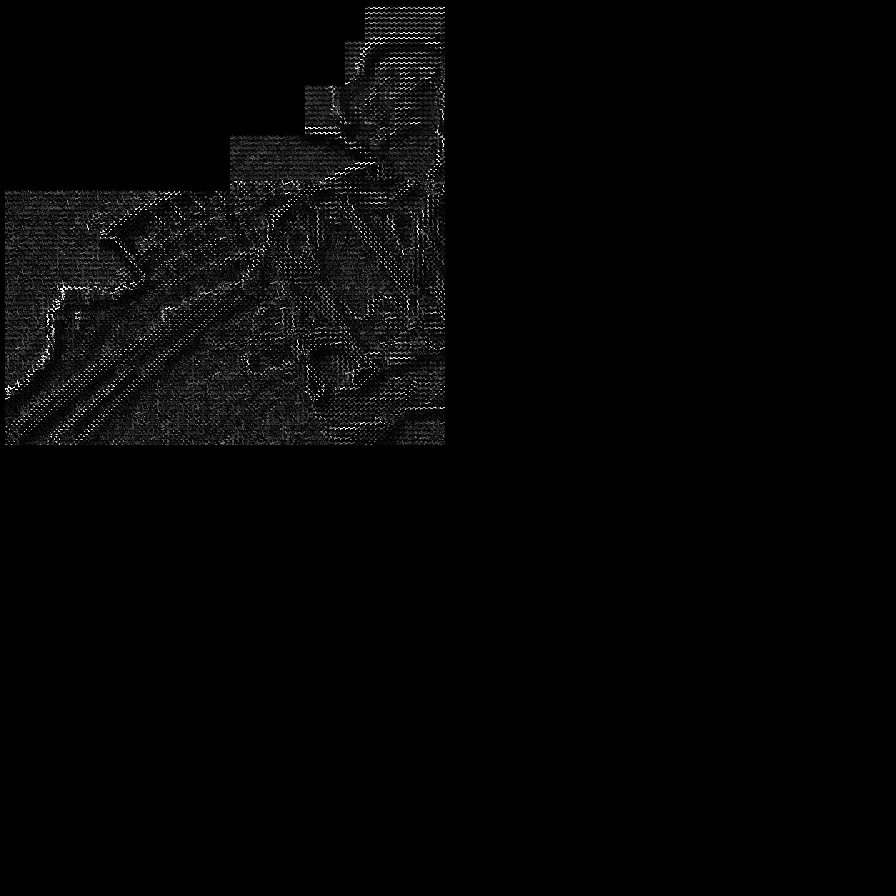
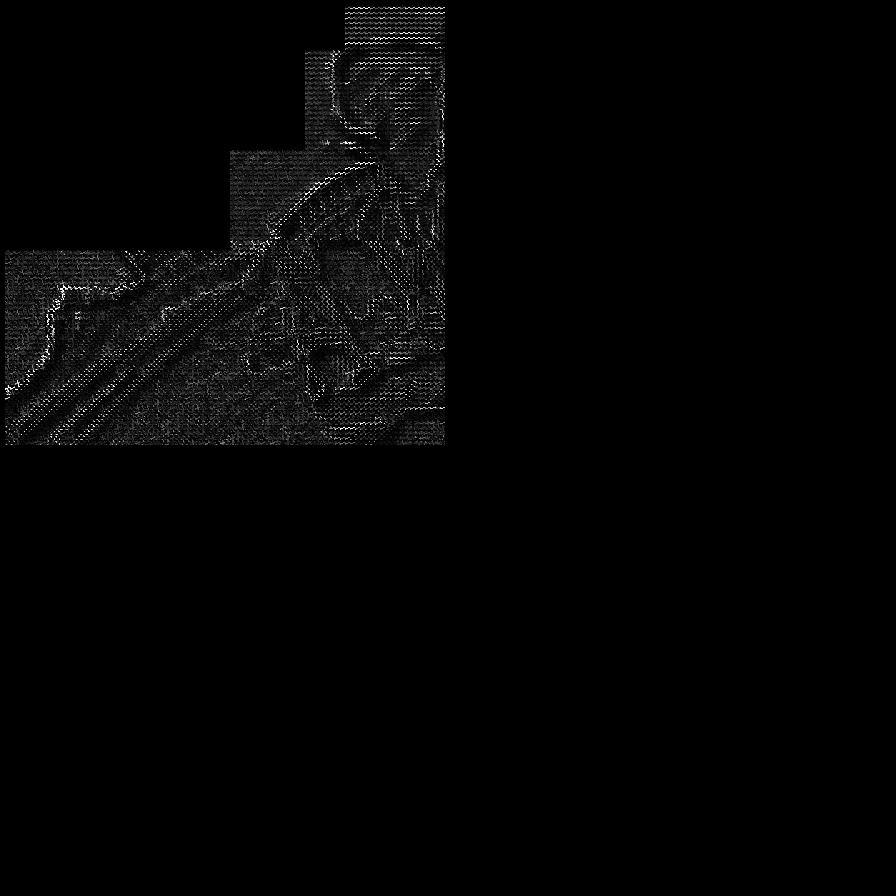
9/3 commit

Changed region(s): [[0.0, 0.1562, 0.5, 0.2812], [0.3438, 0.0, 0.5, 0.0938], [0.3438, 0.125, 0.5, 0.1562]]

diff --git a/improvement_HOG_second.py b/improvement_HOG_second.py
@@ -25,7 +25,7 @@ def improvementHOG(image):
     WIDTH = image.shape[1]
 
     # branck result image
-    result = np.zeros((WIDTH, HEIGHT, 3), np.uint8)
+    result = np.zeros((HEIGHT, WIDTH, 3), np.uint8)
 
     ## 画像のグレースケール化(色バリエーションの最小化)
     GRAY = cv2.cvtColor(image, cv2.COLOR_BGR2GRAY)
@@ -94,17 +94,17 @@ def improvementHOG(image):
             pixel_y = cell_y * CELL_SIZE + (CELL_SIZE - 1)
             # セル内ヒストグラムの作成
             # 二次関数の値縮小用変数
-            quadratic_value = 15
+            quadratic_value = 100
             # セル拡張のための横幅と縦幅を２次関数に近似して求める
             cell_height = 1#int(math.fabs((2*HEIGHT/WIDTH**2)*(pixel_x-WIDTH/2)**2)/CELL_SIZE/quadratic_value)
-            cell_width = int(math.fabs((2*WIDTH/(HEIGHT**2))*(pixel_y-HEIGHT/2)**2)/CELL_SIZE/quadratic_value)
+            cell_width = int((-pixel_y + WIDTH/2)/quadratic_value) #int(math.fabs((2*WIDTH/(HEIGHT**2))*(pixel_y-HEIGHT/2)**2)/CELL_SIZE/quadratic_value)
             # 0の時(頂点付近はセル幅を1にして通常計算を行う)
             if cell_width == 0:
                 cell_width = 1
             if cell_height == 0:
                 cell_height = 1
             # 拡張したセルが画像のサイズを超えている場合、通常のHOGと同じように計算を行う(とりあえずの処置)
-            if pixel_x - CELL_SIZE*cell_width +1 < 0 or pixel_y - CELL_SIZE*cell_height +1 < 0:
+            if pixel_x - CELL_SIZE+cell_width +1 < 0 or pixel_y - CELL_SIZE+cell_height +1 < 0:
                 for y in range(CELL_SIZE):
                     for x in range(CELL_SIZE):
                         for angle in range(9):

diff --git a/print_HOG.py b/print_HOG.py
@@ -25,7 +25,7 @@ def printHOG(image):
     WIDTH = image.shape[1]
 
     # branck result image
-    result = np.zeros((WIDTH, HEIGHT, 3), np.uint8)
+    result = np.zeros((HEIGHT, WIDTH, 3), np.uint8)
 
     ## 画像のグレースケール化(色バリエーションの最小化)
     GRAY = cv2.cvtColor(image, cv2.COLOR_BGR2GRAY)

diff --git a/卒論進捗管理.md b/卒論進捗管理.md
@@ -38,6 +38,12 @@
 - Θ = 360(半球面の場合180度)/WIDTH * X
 - Φ = (HEIGHT/2 - Y) *  180/HEIGHT
 
+### 9/3 考察
+- 拡張用数式は２次関数よりは１次関数でもよい
+- セルの個数における拡張では二分の一ずつになってしまうためピクセルによる拡張が好ましい
+- 拡張による正規化はピクセル数による比率を用いたらよいのではないだろうか
+
+
 ### 優先的にやること
 - 正距円筒図法の式を導く
 - 緯度経度と画像座標系の対応を模索
